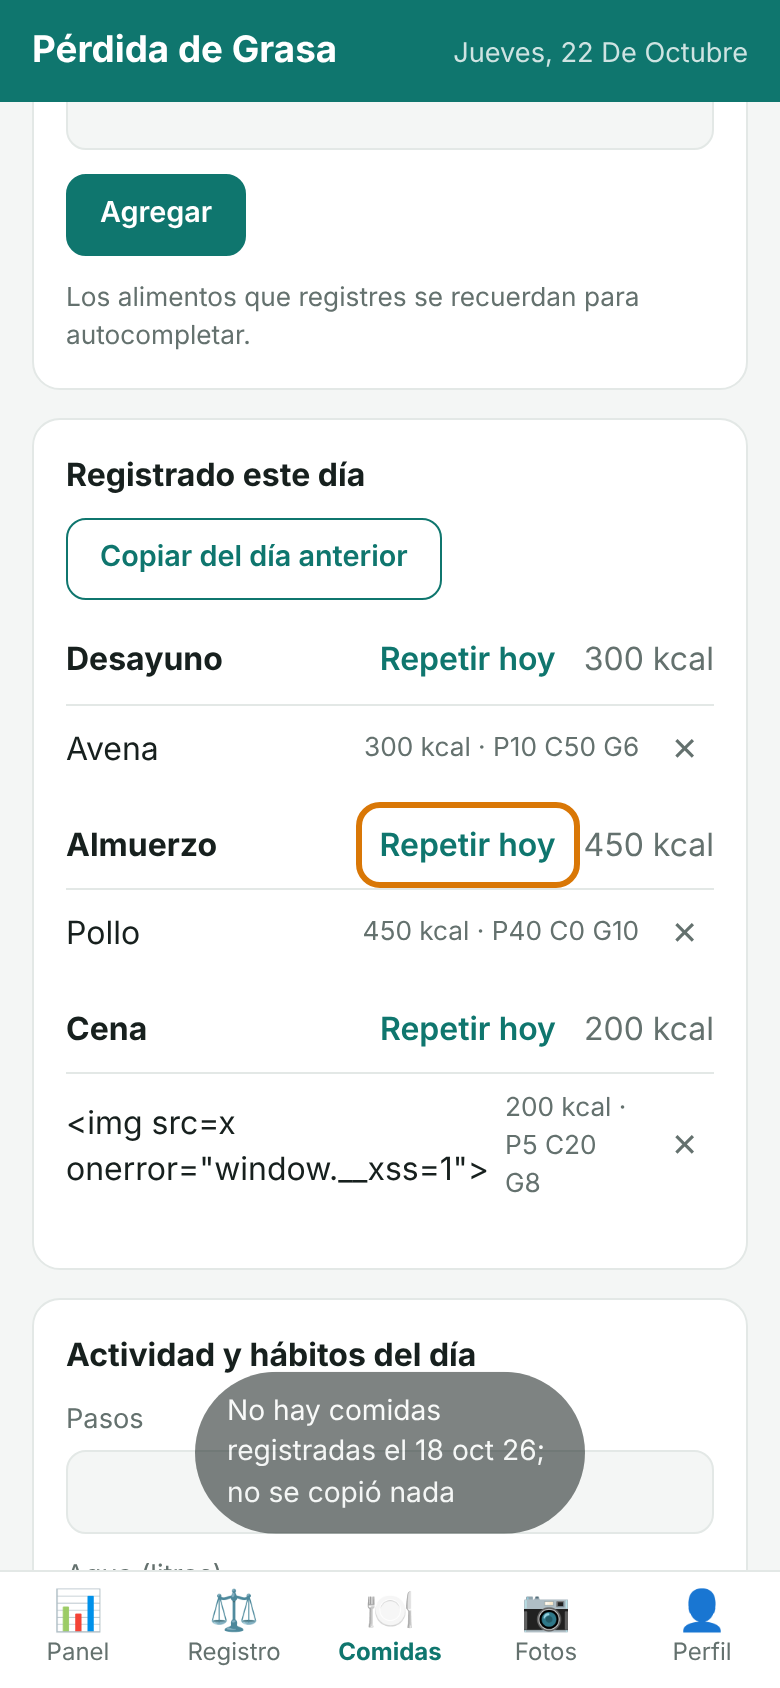
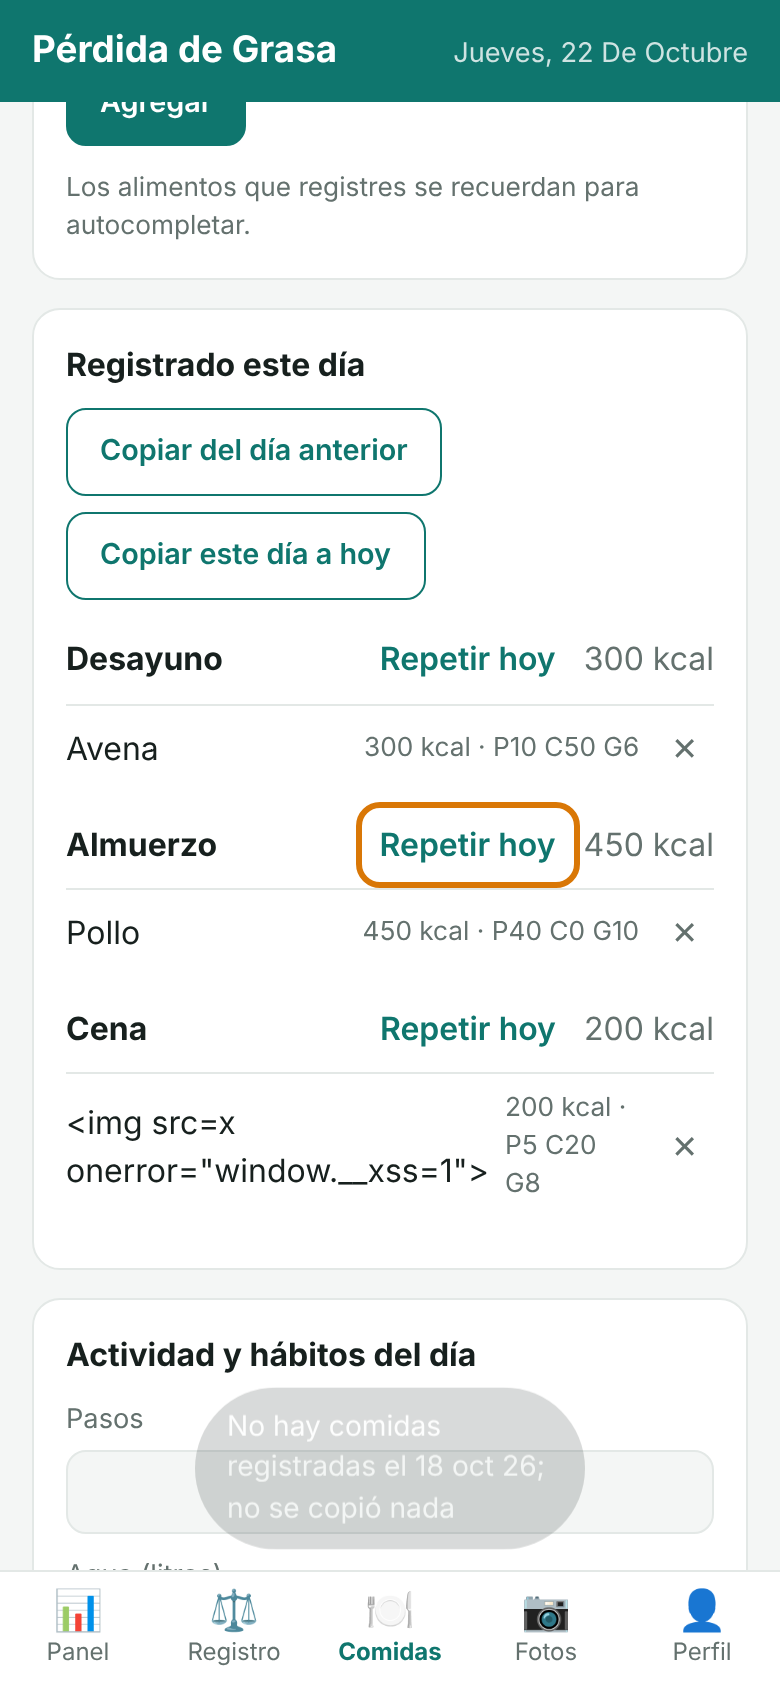
S1-3: corregir condiciones de QA en HU-02 y N1 de S1-2
- D1: "Repetir <bloque> de ayer" en hoy y "Copiar este día a hoy" en días pasados.
- D2: foco al botón regenerado o al título del bloque tras repetir.
- D3: toast con "Deshacer" (6 s) en toda copia; sin confirm() en bloques.
- D4: errata "a el" -> "al".
- N1/L3: visibilitychange solo re-renderiza si cambia el día y mueve las fechas a hoy.
- Escape en "¿Se guardó el archivo?" = No. Botones de copia de 44 px.

Claude-Session: https://claude.ai/code/session_0183ndof4GbVc6BsBtnGe3ek

diff --git a/app.js b/app.js
@@ -97,12 +97,22 @@
   });
 
   let toastTimer;
-  function toast(msg) {
+  // `action` opcional: { label, run } añade un botón (p. ej. "Deshacer") y alarga el toast a 6 s.
+  function toast(msg, action) {
     const t = $('#toast');
     t.textContent = msg;
+    if (action) {
+      const b = document.createElement('button');
+      b.type = 'button';
+      b.className = 'toast-action';
+      b.textContent = action.label;
+      b.addEventListener('click', () => { t.classList.remove('show', 'has-action'); action.run(); }, { once: true });
+      t.append(' ', b);
+    }
+    t.classList.toggle('has-action', !!action);
     t.classList.add('show');
     clearTimeout(toastTimer);
-    toastTimer = setTimeout(() => t.classList.remove('show'), 2200);
+    toastTimer = setTimeout(() => t.classList.remove('show', 'has-action'), action ? 6000 : 2200);
   }
 
   // ---------- Perfil ----------
@@ -248,29 +258,52 @@
 
   // HU-02: repetir comidas. La lógica (ids nuevos + saneado) vive en Schema.copyMeals.
   const plural = (n) => `${n} alimento${n === 1 ? '' : 's'}`;
+  // Copiar un bloque no pide confirmación (es explícito y aditivo): basta "Deshacer" en el toast.
+  // Copiar un día entero sobre un día que ya tiene comidas sí la pide (evita duplicar con un doble toque).
   function repeatMeals(from, to, meal) {
     const src = (state.foods[from] || []).filter((x) => !meal || x.meal === meal);
     const yesterday = from === Schema.addDays(today(), -1);
-    if (!src.length) { toast(`No hay comidas${meal ? ' de ' + meal : ''} registradas ${yesterday ? 'ayer' : 'el ' + fmtDate(from)}; no se copió nada`); return; }
-    const dest = to === today() ? 'hoy' : 'el ' + fmtDate(to);
-    if (state.foods[to]?.length &&
-      !confirm(`${to === today() ? 'Hoy' : 'El ' + fmtDate(to)} ya tiene comidas. ¿Añadir ${plural(src.length)}${meal ? ' de ' + meal : ''} ${yesterday ? 'de ayer' : 'del ' + fmtDate(from)}? No se reemplaza nada.`)) return;
+    if (!src.length) { toast(`No hay comidas${meal ? ' de ' + meal : ''} registradas ${yesterday ? 'ayer' : 'el ' + fmtDate(from)}; no se copió nada`); return false; }
+    const dest = to === today() ? 'a hoy' : 'al ' + fmtDate(to);
+    if (!meal && state.foods[to]?.length &&
+      !confirm(`${to === today() ? 'Hoy' : 'El ' + fmtDate(to)} ya tiene comidas. ¿Añadir ${plural(src.length)} ${yesterday ? 'de ayer' : 'del ' + fmtDate(from)}? No se reemplaza nada.`)) return false;
     let r;
     try { r = Schema.copyMeals(state.foods, from, to, { meal }); }
-    catch (err) { toast('No se pudo copiar: ' + err.message); return; }
+    catch (err) { toast('No se pudo copiar: ' + err.message); return false; }
+    const prevIds = new Set((state.foods[to] || []).map((x) => x.id));
+    const added = new Set((r.foods[to] || []).filter((x) => !prevIds.has(x.id)).map((x) => x.id));
     state.foods = r.foods;
     save();
-    toast(`${r.copied === 1 ? 'Se copió' : 'Se copiaron'} ${plural(r.copied)} a ${dest}` + (r.skipped ? ` (${r.skipped} no válidos omitidos)` : ''));
     render();
+    toast(`${r.copied === 1 ? 'Se copió' : 'Se copiaron'} ${plural(r.copied)} ${dest}` + (r.skipped ? ` (${r.skipped} no válidos omitidos)` : ''),
+      { label: 'Deshacer', run: () => undoCopy(to, added) });
+    return true;
+  }
+  // Deshacer quita solo lo que se añadió en esa copia (respeta lo que se haya registrado después).
+  function undoCopy(day, ids) {
+    const left = (state.foods[day] || []).filter((x) => !ids.has(x.id));
+    if (left.length) state.foods[day] = left; else delete state.foods[day];
+    save();
+    render();
+    if (!document.activeElement || document.activeElement === document.body) $('#food-list-title').focus();
+    toast('Copia deshecha');
   }
   $('#btn-copy-prev').addEventListener('click', () => {
     const d = foodDate.value || today();
     repeatMeals(Schema.addDays(d, -1), d);
   });
+  $('#btn-copy-to-today').addEventListener('click', () => repeatMeals(foodDate.value, today()));
 
   $('#food-list').addEventListener('click', (ev) => {
     const rep = ev.target.closest('[data-repeat-meal]');
-    if (rep) { repeatMeals(foodDate.value, today(), rep.dataset.repeatMeal); return; }
+    if (rep) {
+      const { repeatMeal: meal, from } = rep.dataset;
+      repeatMeals(from, today(), meal);
+      // El botón se regenera (o desaparece): devolver el foco al equivalente o al título del bloque.
+      const same = $(`#food-list [data-repeat-meal="${meal}"][data-from="${from}"]`);
+      (same || $(`#food-list [data-meal-title="${meal}"]`) || $('#food-list-title')).focus();
+      return;
+    }
     const btn = ev.target.closest('[data-del-food]');
     if (!btn) return;
     const d = foodDate.value;
@@ -325,16 +358,28 @@
     const isToday = d === today();
     $('#btn-copy-prev').textContent = isToday ? 'Copiar de ayer' : 'Copiar del día anterior';
     $('#btn-copy-prev').setAttribute('aria-label', `Copiar las comidas del ${fmtDate(Schema.addDays(d, -1))} a este día`);
-    $('#food-list').innerHTML = list.length ? meals.map((m) => {
+    $('#btn-copy-to-today').classList.toggle('hidden', isToday || !list.length);
+    $('#btn-copy-to-today').setAttribute('aria-label', `Copiar las comidas del ${fmtDate(d)} a hoy`);
+    // Hoy: por cada bloque vacío que ayer sí tenía, "Repetir <bloque> de ayer".
+    // Otro día: por cada bloque, "Repetir hoy" (lo copia al día de hoy).
+    const prev = Schema.addDays(d, -1);
+    const prevList = isToday ? state.foods[prev] || [] : [];
+    const html = meals.map((m) => {
       const xs = list.filter((x) => x.meal === m);
-      if (!xs.length) return '';
+      const ys = prevList.filter((x) => x.meal === m);
+      if (!xs.length && !ys.length) return '';
       const sum = xs.reduce((s, x) => s + x.kcal, 0);
-      // "Repetir hoy" solo tiene sentido al mirar otro día (copia este bloque al día de hoy).
-      const rep = isToday ? '' : `<button type="button" class="btn-link small" data-repeat-meal="${esc(m)}" aria-label="Repetir ${esc(m)} hoy">Repetir hoy</button>`;
-      return `<div class="meal"><div class="meal-head"><strong>${esc(m)}</strong><span class="meal-side">${rep}<span class="muted">${Math.round(sum)} kcal</span></span></div>
+      const rep = !isToday
+        ? `<button type="button" class="btn-link small" data-repeat-meal="${esc(m)}" data-from="${esc(d)}" aria-label="Repetir ${esc(m)} hoy">Repetir hoy</button>`
+        : !xs.length
+          ? `<button type="button" class="btn-link small" data-repeat-meal="${esc(m)}" data-from="${esc(prev)}">Repetir ${esc(m.toLowerCase())} de ayer</button>`
+          : '';
+      const side = xs.length ? `${Math.round(sum)} kcal` : `Ayer: ${Math.round(ys.reduce((s, x) => s + x.kcal, 0))} kcal`;
+      return `<div class="meal"><div class="meal-head"><strong data-meal-title="${esc(m)}" tabindex="-1">${esc(m)}</strong><span class="meal-side">${rep}<span class="muted">${side}</span></span></div>
         ${xs.map((x) => `<div class="food-row"><span>${esc(x.name)}</span><span class="muted small">${esc(x.kcal)} kcal · P${fmt(x.protein, 0)} C${fmt(x.carbs, 0)} G${fmt(x.fat, 0)}</span><button class="icon-btn" data-del-food="${esc(x.id)}" aria-label="Eliminar">✕</button></div>`).join('')}
       </div>`;
-    }).join('') : '<p class="muted small">Nada registrado este día.</p>';
+    }).join('');
+    $('#food-list').innerHTML = (list.length ? '' : '<p class="muted small">Nada registrado este día.</p>') + html;
 
     $('#food-suggestions').innerHTML = Object.values(state.library).map((x) => `<option value="${esc(x.name)}">`).join('');
 
@@ -797,9 +842,23 @@
     toast(`Te lo recordaremos en ${SNOOZE_DAYS} días`);
   });
 
-  // En iPhone la PWA se reanuda sin recargar: recalcular al volver (cambio de día).
+  // Escape en la barra = "No".
+  $('#backup-confirm').addEventListener('keydown', (ev) => {
+    if (ev.key === 'Escape') { ev.preventDefault(); $('#btn-backup-no').click(); }
+  });
+
+  // En iPhone la PWA se reanuda sin recargar. Solo se re-renderiza si cambió el día, para no
+  // pisar lo que se estaba escribiendo (hábitos sin guardar). Las fechas que seguían en "hoy" pasan al nuevo día.
+  let lastDay = today();
   document.addEventListener('visibilitychange', () => {
-    if (document.visibilityState === 'visible') render();
+    if (document.visibilityState !== 'visible') return;
+    const now = today();
+    if (now === lastDay) return;
+    for (const input of [foodDate, entryForm.elements.date, photoForm.elements.date]) {
+      if (input.value === lastDay) input.value = now;
+    }
+    lastDay = now;
+    render();
   });
 
   async function checkStorage() {

diff --git a/equipo/qa/qa-s1-3.js b/equipo/qa/qa-s1-3.js
@@ -54,8 +54,13 @@ const box = (page, sel) => page.locator(sel).first().boundingBox();
     await setDay(page, D17);
     const before = dialogs.length;
     let taps = 1; // cambiar fecha
-    for (const m of ['Desayuno', 'Almuerzo', 'Cena', 'Snack']) { await page.click(`[data-repeat-meal="${m}"]`); taps++; await page.waitForTimeout(50); }
+    // Decisión SM sobre D1: al mirar un día pasado hay "Copiar este día a hoy" (antes: 4 × "Repetir hoy").
+    await page.click('#btn-copy-to-today'); taps++;
     const f = await foods(page);
+    log('C2b: "Deshacer" en el toast quita la copia', /deshacer/i.test(await toast(page)));
+    await page.click('#toast .toast-action');
+    log('C2c: tras "Deshacer" hoy vuelve a estar vacío', !((await foods(page))[D21] || []).length);
+    await page.click('#btn-copy-to-today');
     log('C2: copiar el día 17 completo a hoy copia los 4 bloques', (f[D21] || []).length === 4, `toques=${taps}, confirm()=${dialogs.length - before}`);
     log('C2: …pero exige ≥ 5 toques + 3 confirm() (métrica "1–2 toques")', taps + (dialogs.length - before) <= 2, `toques=${taps} + confirm=${dialogs.length - before}`);
 
@@ -139,6 +144,8 @@ const box = (page, sel) => page.locator(sel).first().boundingBox();
     log('R1: la barra aparece y el foco va a "Sí"', (await vis()) && (await page.evaluate(() => document.activeElement.id)) === 'btn-backup-yes');
     await page.keyboard.press('Escape');
     log('R1b: Escape cierra la barra (= "No")', !(await vis()), 'sigue visible=' + (await vis()));
+    // Escape ya cierra la barra: se vuelve a abrir para comprobar R1c-R1e.
+    await Promise.all([page.waitForEvent('download'), page.click('#btn-export')]);
     const bar = await box(page, '#backup-confirm');
     const nav = await box(page, 'nav');
     log('R1c: la barra no tapa la barra de pestañas', bar && nav && bar.y + bar.height <= nav.y + 1, `bar.bottom=${bar && Math.round(bar.y + bar.height)} nav.top=${nav && Math.round(nav.y)}`);

diff --git a/styles.css b/styles.css
@@ -131,6 +131,12 @@ input:focus, select:focus { outline: 2px solid var(--accent); outline-offset: 0;
 /* Repetir comidas (HU-02) */
 .btn-link { font: inherit; font-weight: 600; border: 0; background: transparent; color: var(--accent); cursor: pointer; padding: 6px 8px; border-radius: 8px; min-height: 32px; }
 .btn-link:hover { background: var(--line); }
+.btn-tall { min-height: 44px; }
+.toast.has-action { pointer-events: auto; display: flex; align-items: center; gap: 12px; width: max-content; border-radius: 14px; }
+.toast-action { font: inherit; font-weight: 700; border: 0; background: transparent; color: inherit; text-decoration: underline; cursor: pointer; padding: 6px 4px; min-height: 32px; }
+.toast-action:focus-visible { outline: 3px solid var(--goal); outline-offset: 2px; }
+.toast:not(.show) .toast-action { visibility: hidden; }
+[tabindex="-1"]:focus:not(:focus-visible) { outline: none; }
 .btn-link:focus-visible, .icon-btn:focus-visible { outline: 3px solid var(--goal); outline-offset: 1px; }
 .meal-head { align-items: center; gap: 8px; }
 .meal-side { display: flex; align-items: center; gap: 6px; flex-wrap: wrap; justify-content: flex-end; }

diff --git a/equipo/qa/run-s1-3.js b/equipo/qa/run-s1-3.js
@@ -47,7 +47,9 @@ const seed = {
   // 1. Día local de Bogotá, no UTC
   log('Fecha del diario = día local de Bogotá (21), no UTC (22)', (await page.inputValue('#food-date')) === D21, await page.inputValue('#food-date'));
   log('Botón "Copiar de ayer" visible en hoy', (await page.locator('#btn-copy-prev').innerText()).trim() === 'Copiar de ayer');
-  log('En hoy no hay "Repetir hoy" por bloque', (await page.locator('[data-repeat-meal]').count()) === 0);
+  // Decisión SM (D1 de QA): en hoy, cada bloque vacío que ayer tenía ofrece "Repetir <bloque> de ayer".
+  log('En hoy: "Repetir <bloque> de ayer" por cada bloque de ayer (3)', (await page.locator(`[data-repeat-meal][data-from="${D20}"]`).count()) === 3
+    && (await page.locator('[data-repeat-meal="Desayuno"]').innerText()).trim() === 'Repetir desayuno de ayer');
 
   // 2. Copiar de ayer con el día vacío: sin confirmación
   await page.click('#btn-copy-prev');

diff --git a/index.html b/index.html
@@ -142,8 +142,11 @@
 
       <div class="card">
         <div class="card-head">
-          <h2>Registrado este día</h2>
-          <button type="button" class="btn btn-ghost" id="btn-copy-prev">Copiar de ayer</button>
+          <h2 id="food-list-title" tabindex="-1">Registrado este día</h2>
+          <div class="row-actions">
+            <button type="button" class="btn btn-ghost btn-tall" id="btn-copy-prev">Copiar de ayer</button>
+            <button type="button" class="btn btn-ghost btn-tall hidden" id="btn-copy-to-today">Copiar este día a hoy</button>
+          </div>
         </div>
         <div id="food-list"></div>
       </div>

diff --git a/equipo/handoffs/2026-10-21-S1-3-fix-frontend-a-qa.md b/equipo/handoffs/2026-10-21-S1-3-fix-frontend-a-qa.md
@@ -1,0 +1,43 @@
+DE: Dev Frontend + UX → PARA: QA (cc: Scrum Master, Dev Backend, Analista/PO)
+HISTORIA: S1-3 = HU-02 · corrección de las condiciones del veredicto de QA (D1-D4) + S1-2 N1 + Escape
+
+HECHO:
+- **D1 (decisión del SM):**
+  - En hoy, cada bloque vacío que ayer sí tenía muestra la cabecera «Repetir <bloque> de ayer» con «Ayer: N kcal».
+    Se oculta en cuanto el bloque de hoy tiene algo, lo que evita duplicar con un doble toque.
+  - Al mirar un día pasado se mantiene «Repetir hoy» por bloque y se añade **«Copiar este día a hoy»**
+    (`#btn-copy-to-today`): son 2 toques.
+- **D2:** tras repetir un bloque, el foco va al botón equivalente regenerado. Si ya no existe, va al título del bloque
+  (`[data-meal-title]`, `tabindex=-1`) o, como último recurso, a `#food-list-title`.
+- **D3:** `toast(msg, {label, run})` admite un botón de acción. Toda copia muestra «Deshacer» durante 6 s, y deshacer
+  quita **solo los ids añadidos** en esa copia (respeta lo registrado después).
+- **D3, decisión sobre `confirm()`:**
+  - Se eliminó en las copias de bloque.
+  - **Se mantiene** solo en la copia de un día entero («Copiar de ayer», «Copiar del día anterior», «Copiar este día
+    a hoy») cuando el destino ya tiene comidas. Motivo: un doble toque duplicaría el día entero y «Deshacer» solo
+    revierte la última copia, así que el confirm es la red barata (C7 de QA sigue en verde).
+  - Sobre un día vacío no se pregunta nada.
+- **D4:** «a el 18 oct» → «al 18 oct».
+- **L2:** «Copiar de ayer» y «Copiar este día a hoy» miden 44 px de alto (`.btn-tall`).
+- **S1-2 N1 + L3:** `visibilitychange` solo re-renderiza si cambió el día. Ya no se pierden los hábitos sin guardar.
+  Al cambiar de día, las fechas de diario, registro y fotos que seguían en el «hoy» anterior pasan al nuevo día.
+- **Escape** en la barra «¿Se guardó el archivo?» equivale a «No».
+- Se usa `Schema.copyMeals` / `Schema.addDays`. No toqué `normalize`/`migrate`/`load`/`save`, la importación,
+  `photos.js` ni `sw.js` (no hay assets nuevos, así que `CACHE` no cambia).
+
+PRUEBAS:
+- `npm test`: 28/28 en verde.
+- `run-s1-1`: 20/20 · `run-s1-2`: TODO OK · `run-s1-3`: TODO OK · `qa-s1-2`: TODO OK · `qa-s1-3`: 24/24 OK.
+- Captura: `equipo/qa-capturas/s1-3-fix-repetir-de-ayer.png` (390 px, sin scroll horizontal).
+
+AJUSTES A LAS PRUEBAS (solo donde la decisión cambia lo esperado):
+- `run-s1-3.js` §1: antes «en hoy no hay botones de bloque»; ahora se esperan 3 «Repetir <bloque> de ayer» (D1).
+- `qa-s1-3.js` C2: copia el día 17 con «Copiar este día a hoy» (2 toques) en lugar de 4 × «Repetir hoy».
+  Se añadieron C2b/C2c, que comprueban «Deshacer».
+- `qa-s1-3.js` R1: como Escape ya cierra la barra, se vuelve a abrir antes de R1c-R1e.
+
+PENDIENTE / RIESGOS:
+- «Deshacer» está en el toast (role=status), al final del DOM. Con teclado o lector se llega tarde: no se le pasa el
+  foco a propósito para no robarlo. Si QA lo considera insuficiente, en HU-03 se puede usar un componente de
+  confirmación propio.
+- Si se cambia de día con el diario en una fecha distinta de «hoy», la fecha no se mueve, porque fue elegida.
